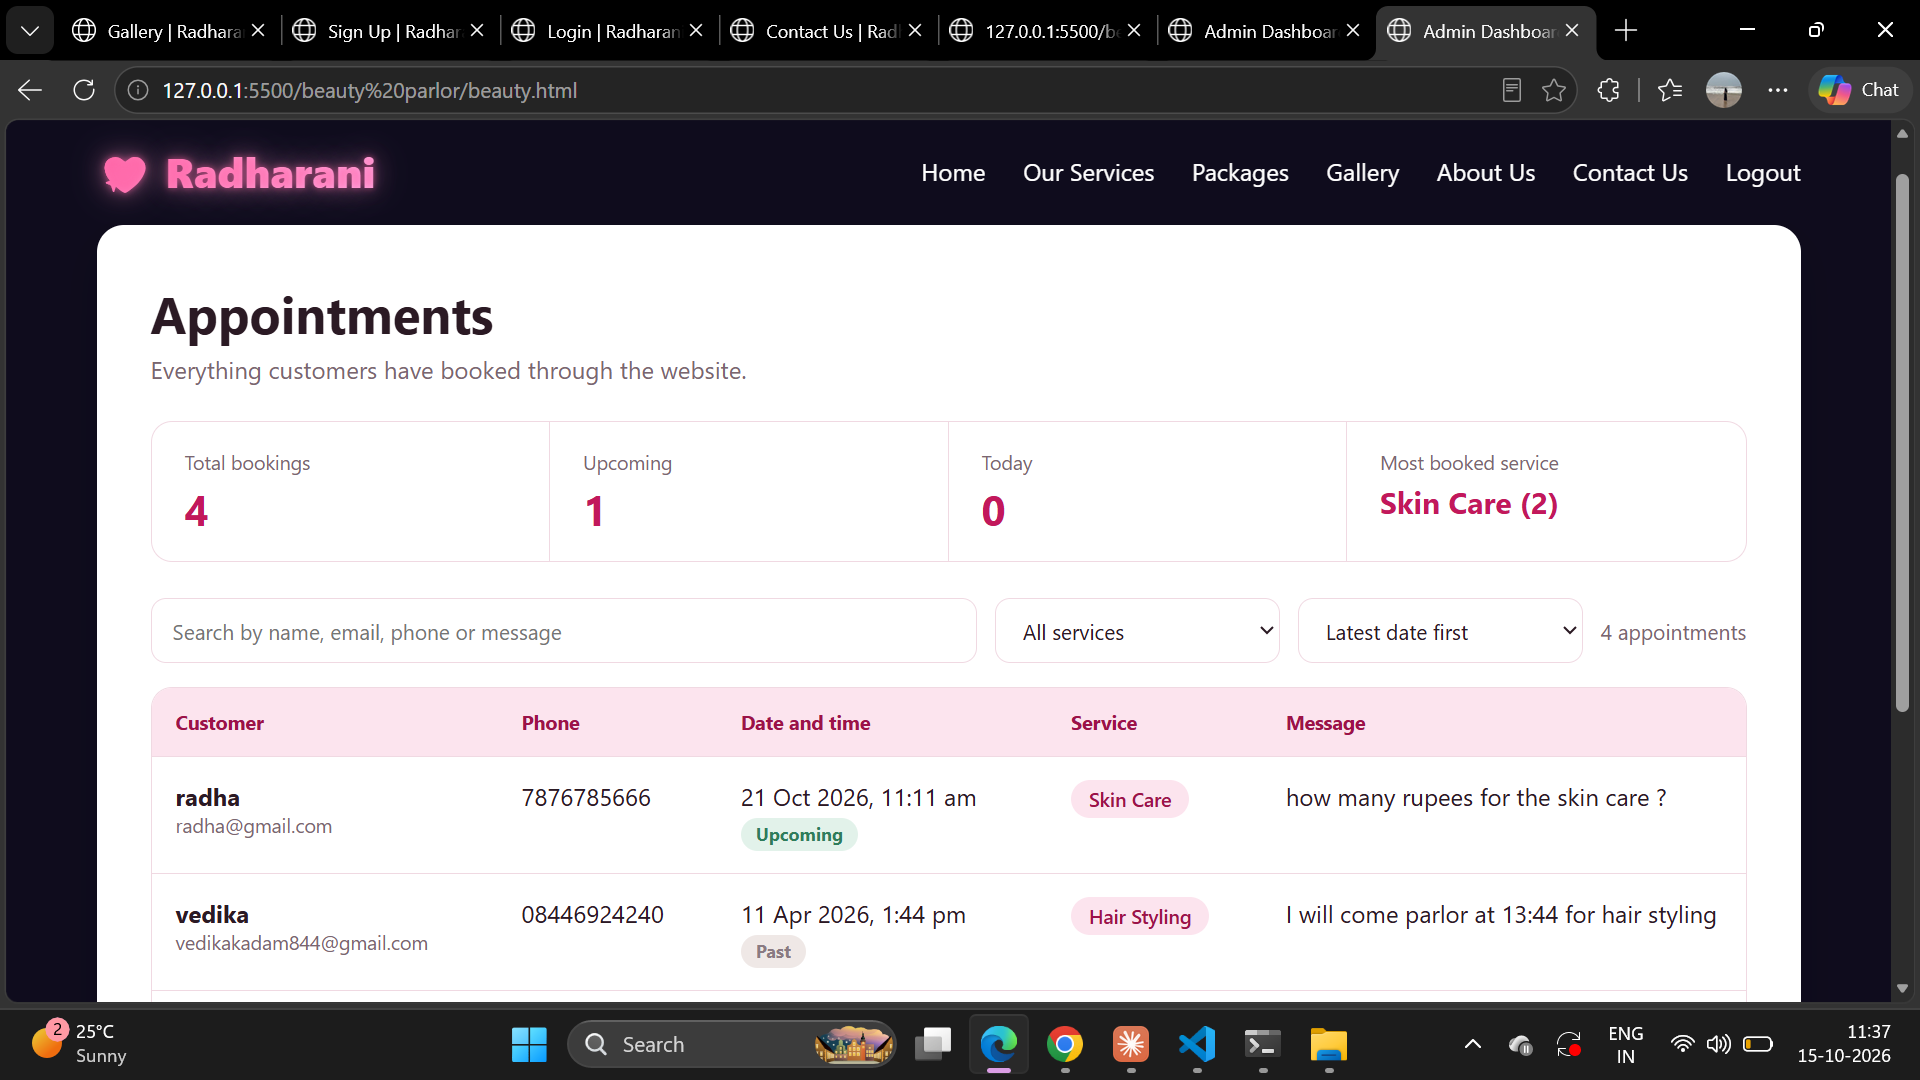
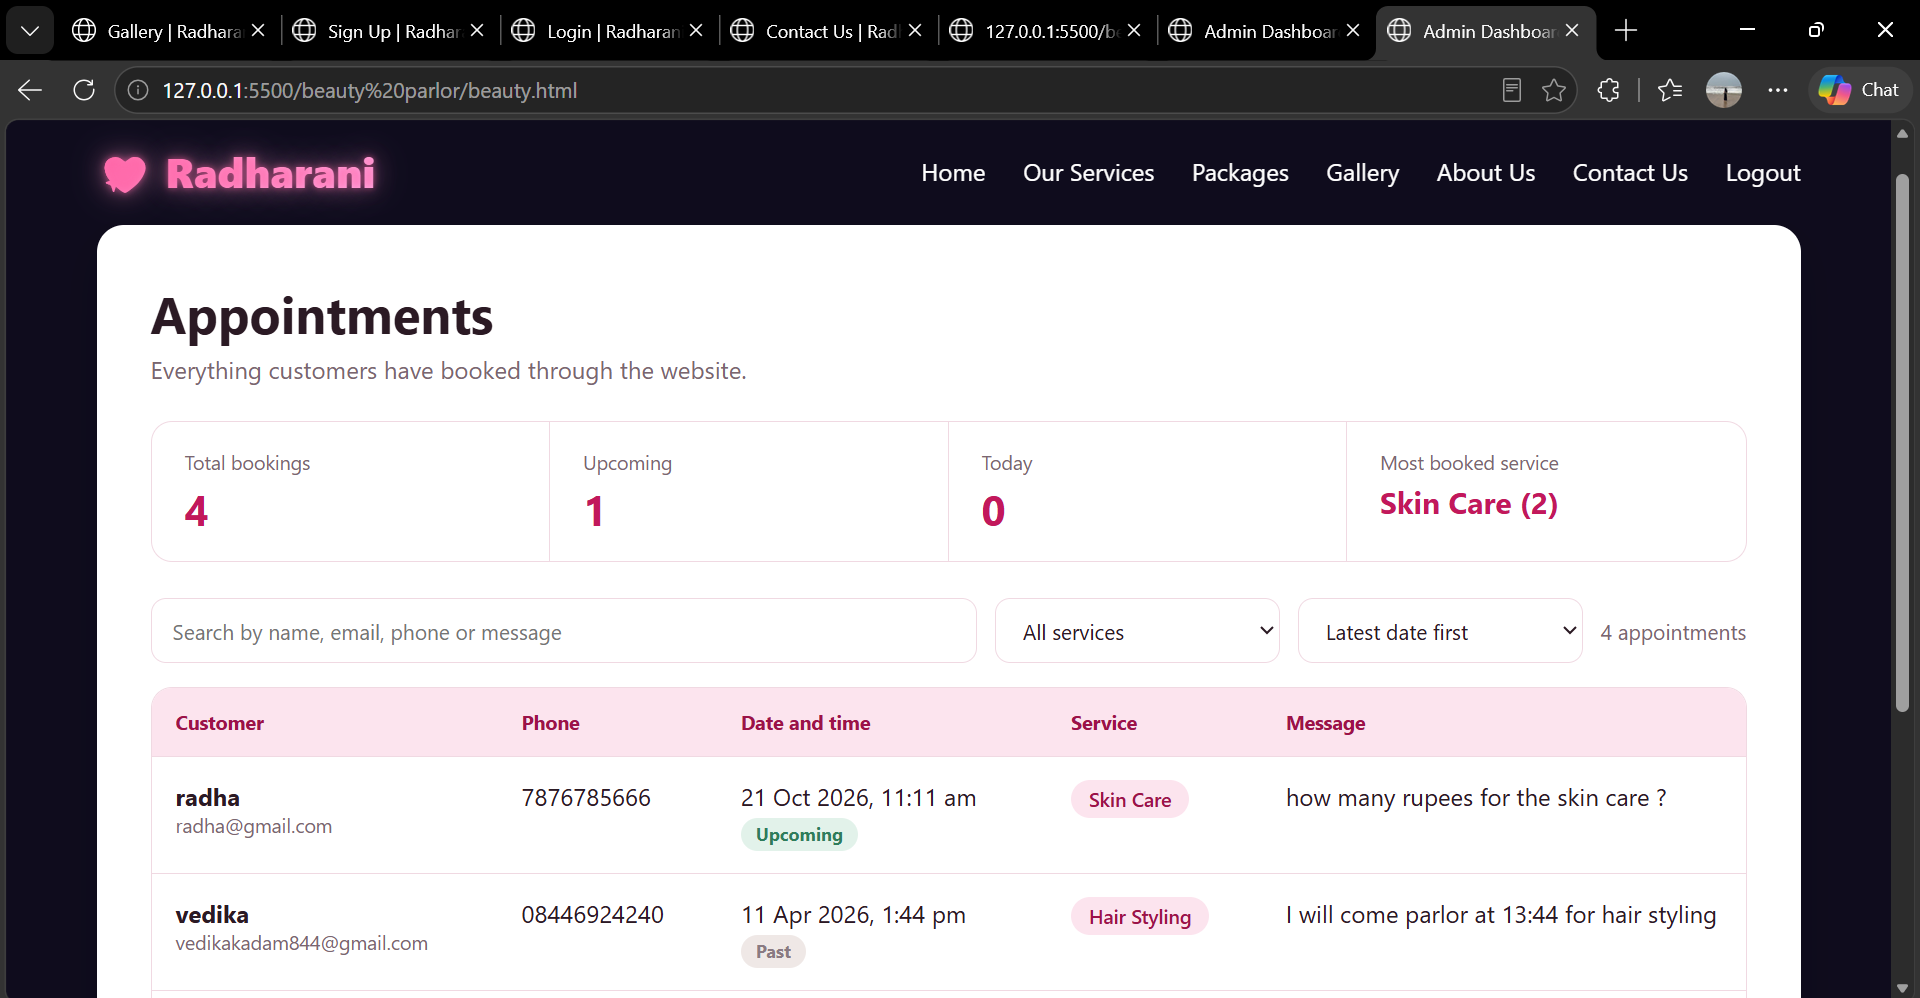
Update README screenshots

diff --git a/README.md b/README.md
@@ -97,7 +97,7 @@ A full stack beauty parlor website where customers can browse services and packa
 ![Admin Panel](screenshots/admin.png)
 
 ### Sign up
-![Sign Up](screenshots/signup.png)
+![Sign Up](screenshots/signUp.png)
 
 ## Author
 
